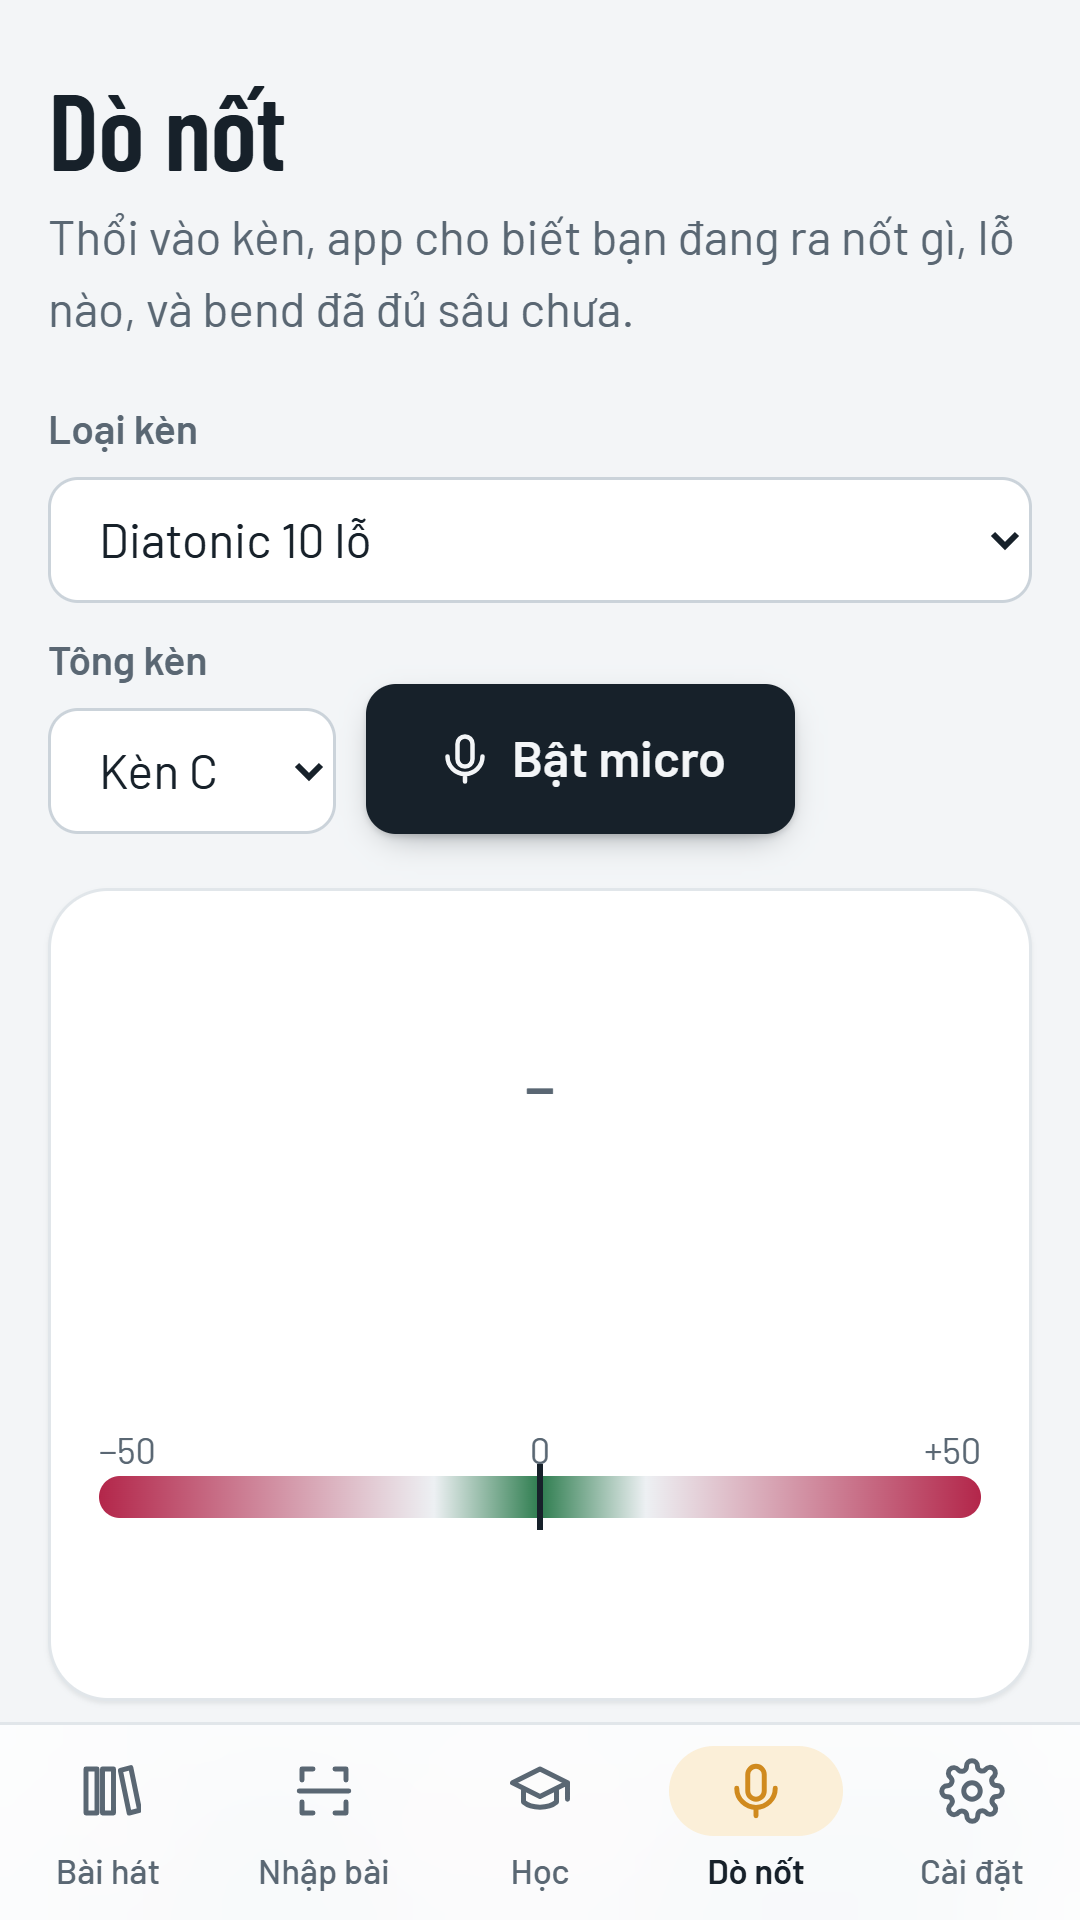
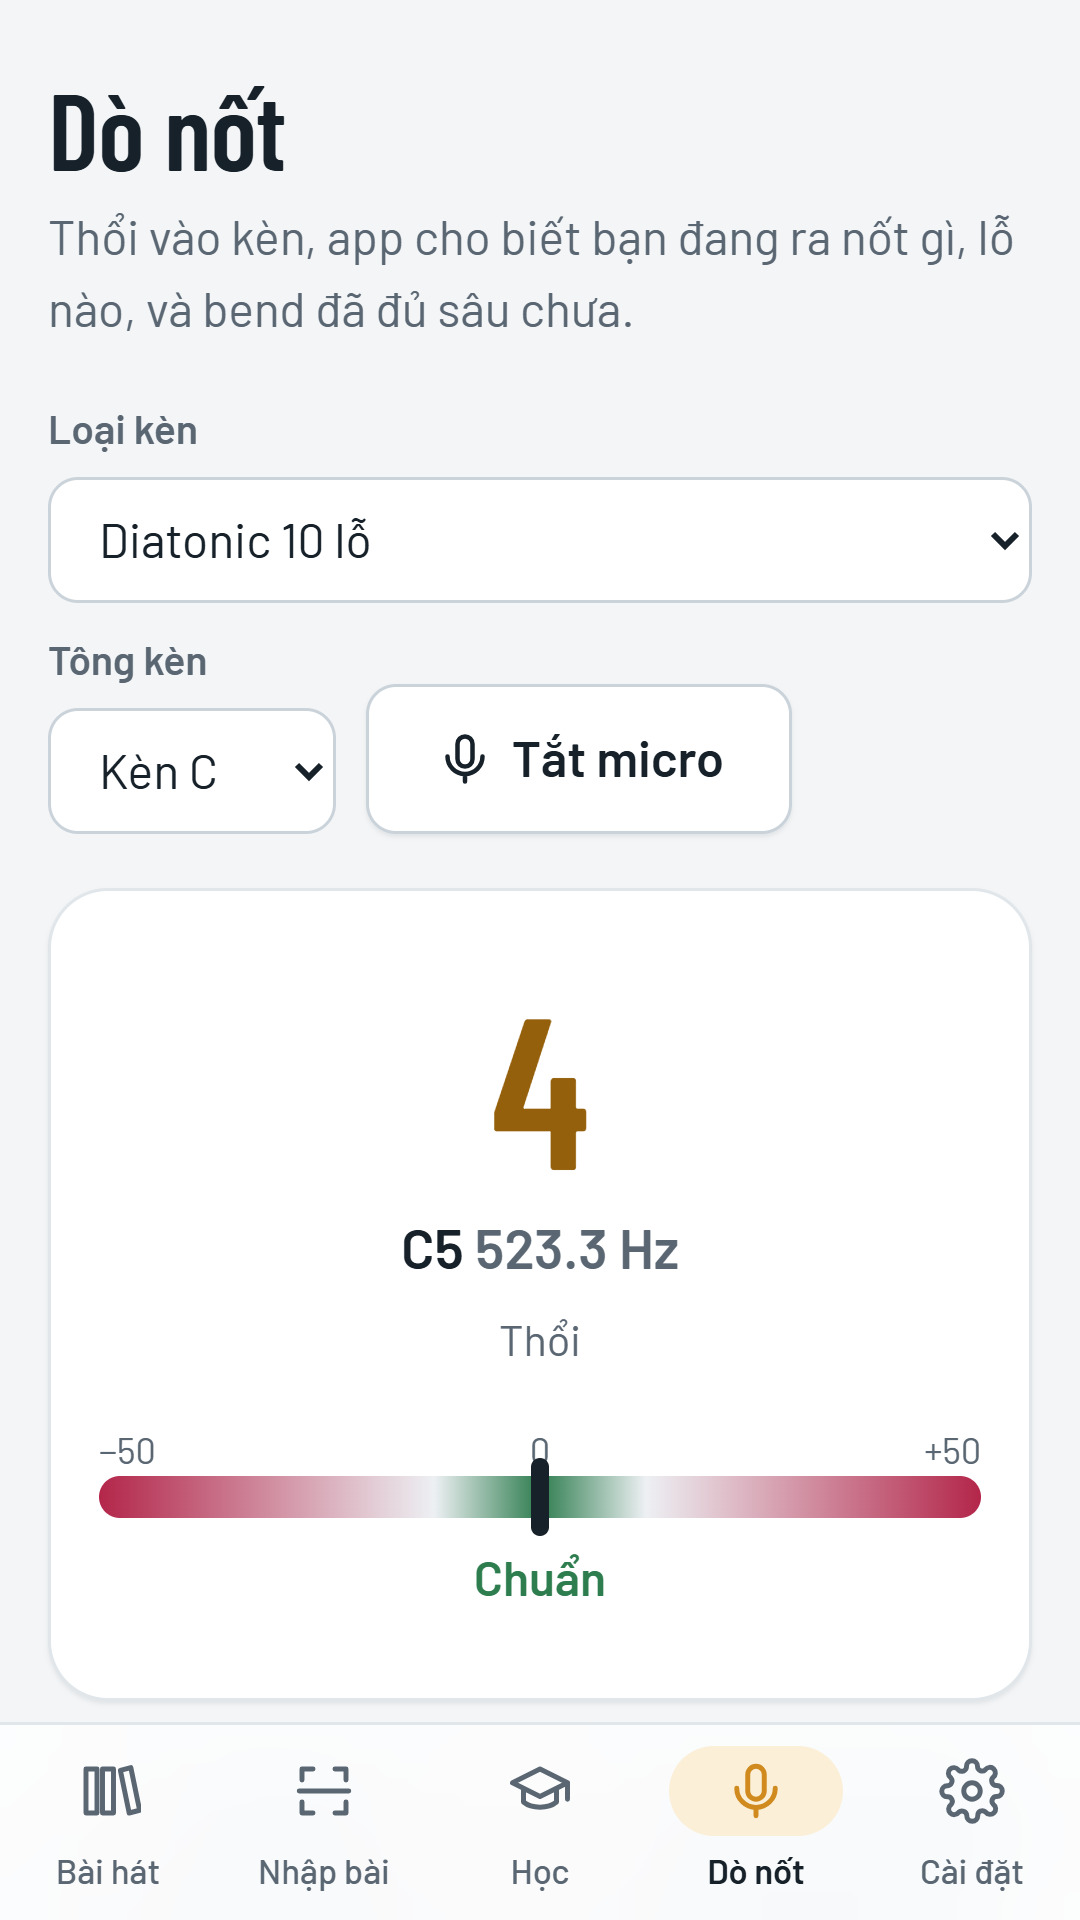
Dò nốt: dòng chú thích dưới nốt hết lặp "Thế thường / Thế thường" — guitar, ukulele ghi rõ "Dây 5 buông / Dây 6 phím 5", bỏ chữ trùng, chỉ còn "Thế thường" thì không ghi; ảnh Google Play "Dò nốt" chụp lại cho cả 7 app khi đang nhận một nốt chuẩn (micro giả phát nốt mẫu hợp từng nhạc cụ) thay cho thư

diff --git a/src/pages/Tuner.tsx b/src/pages/Tuner.tsx
@@ -68,6 +68,16 @@ export default function Tuner() {
   const cents = r ? Math.round(r.cents) : 0;
   const inTune = r && Math.abs(cents) <= 15;
 
+  // chú thích dưới nốt: guitar / ukulele ghi rõ dây + phím; bỏ chữ trùng; chỉ còn "Thế thường" thì không ghi (không nói thêm gì)
+  const techLine = (() => {
+    const labels = [...new Set(matches.map((m) => {
+      if (isTwoRowChromatic(type)) return (m.slide ? 'Hàng trên' : 'Hàng dưới') + (m.dir === 'blow' ? ', thổi' : ', hút');
+      if (isFretted(type)) { const [str, fret] = m.token.split('.'); return Number(fret) ? `Dây ${str} phím ${fret}` : `Dây ${str} buông`; }
+      return TECHNIQUE_LABEL[m.technique];
+    }))];
+    return labels.length === 1 && labels[0] === TECHNIQUE_LABEL.fingered ? '' : labels.join(' / ');
+  })();
+
   return (
     <div className="page page-tuner">
       <header className="page-head">
@@ -98,7 +108,7 @@ export default function Tuner() {
         <div className="tr-note">
           {r ? <>{midiToName(r.nearest, settings.noteNames)} <span className="muted">{r.hz.toFixed(1)} Hz</span></> : ' '}
         </div>
-        <div className="tr-tech">{matches.map((m) => (isTwoRowChromatic(type) ? (m.slide ? 'Hàng trên' : 'Hàng dưới') + (m.dir === 'blow' ? ', thổi' : ', hút') : TECHNIQUE_LABEL[m.technique])).join(' / ') || ' '}</div>
+        <div className="tr-tech">{techLine || ' '}</div>
         <div className="cents-meter" role="meter" aria-valuemin={-50} aria-valuemax={50} aria-valuenow={cents} aria-label="Độ lệch cao độ (cent)">
           <div className="cm-scale"><span>−50</span><span>0</span><span>+50</span></div>
           <div className="cm-track"><div className="cm-center" /><div className="cm-needle" style={{ left: `${50 + Math.max(-50, Math.min(50, cents))}%`, opacity: r ? 1 : 0 }} /></div>
